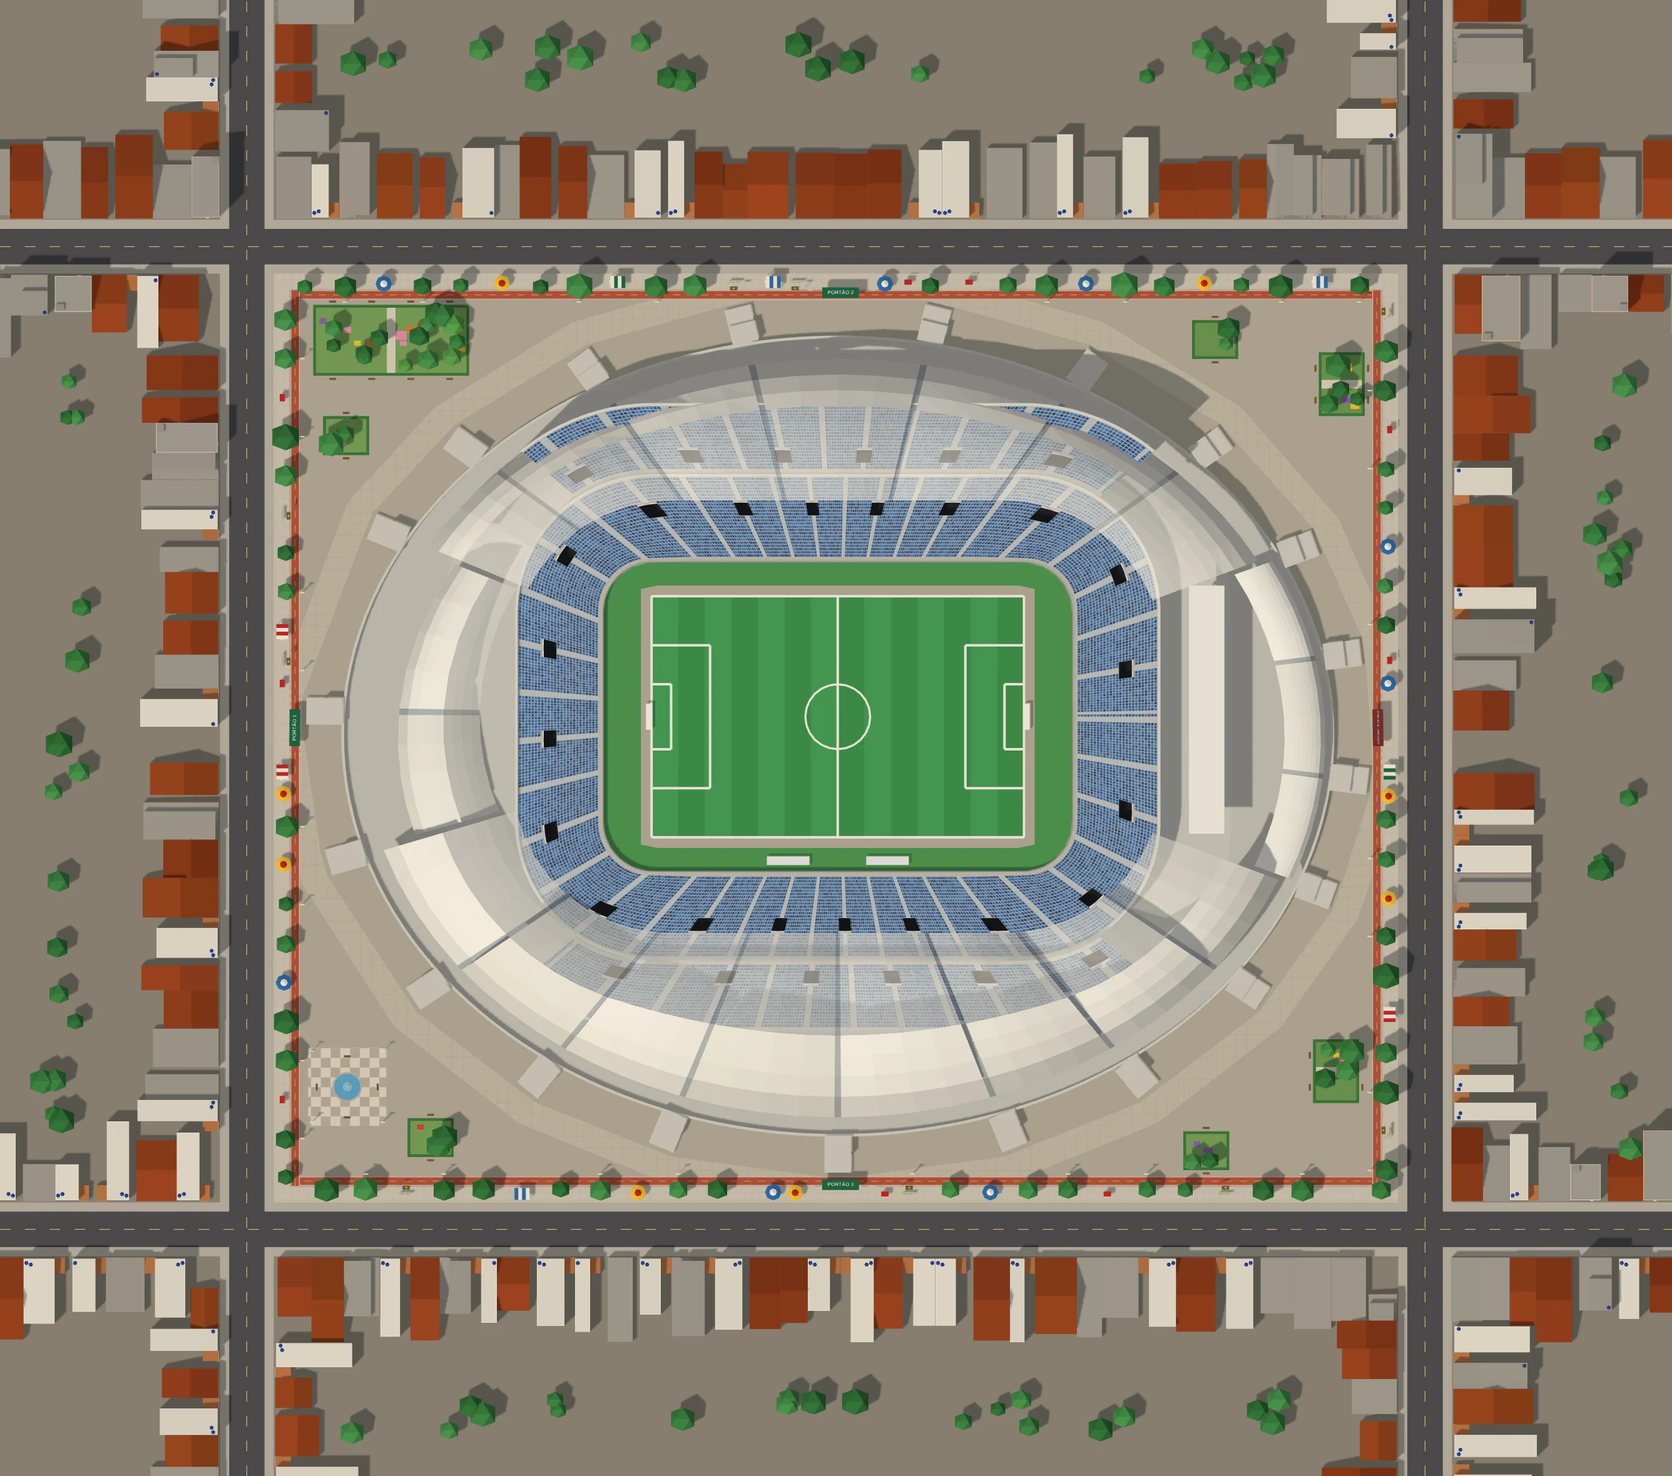
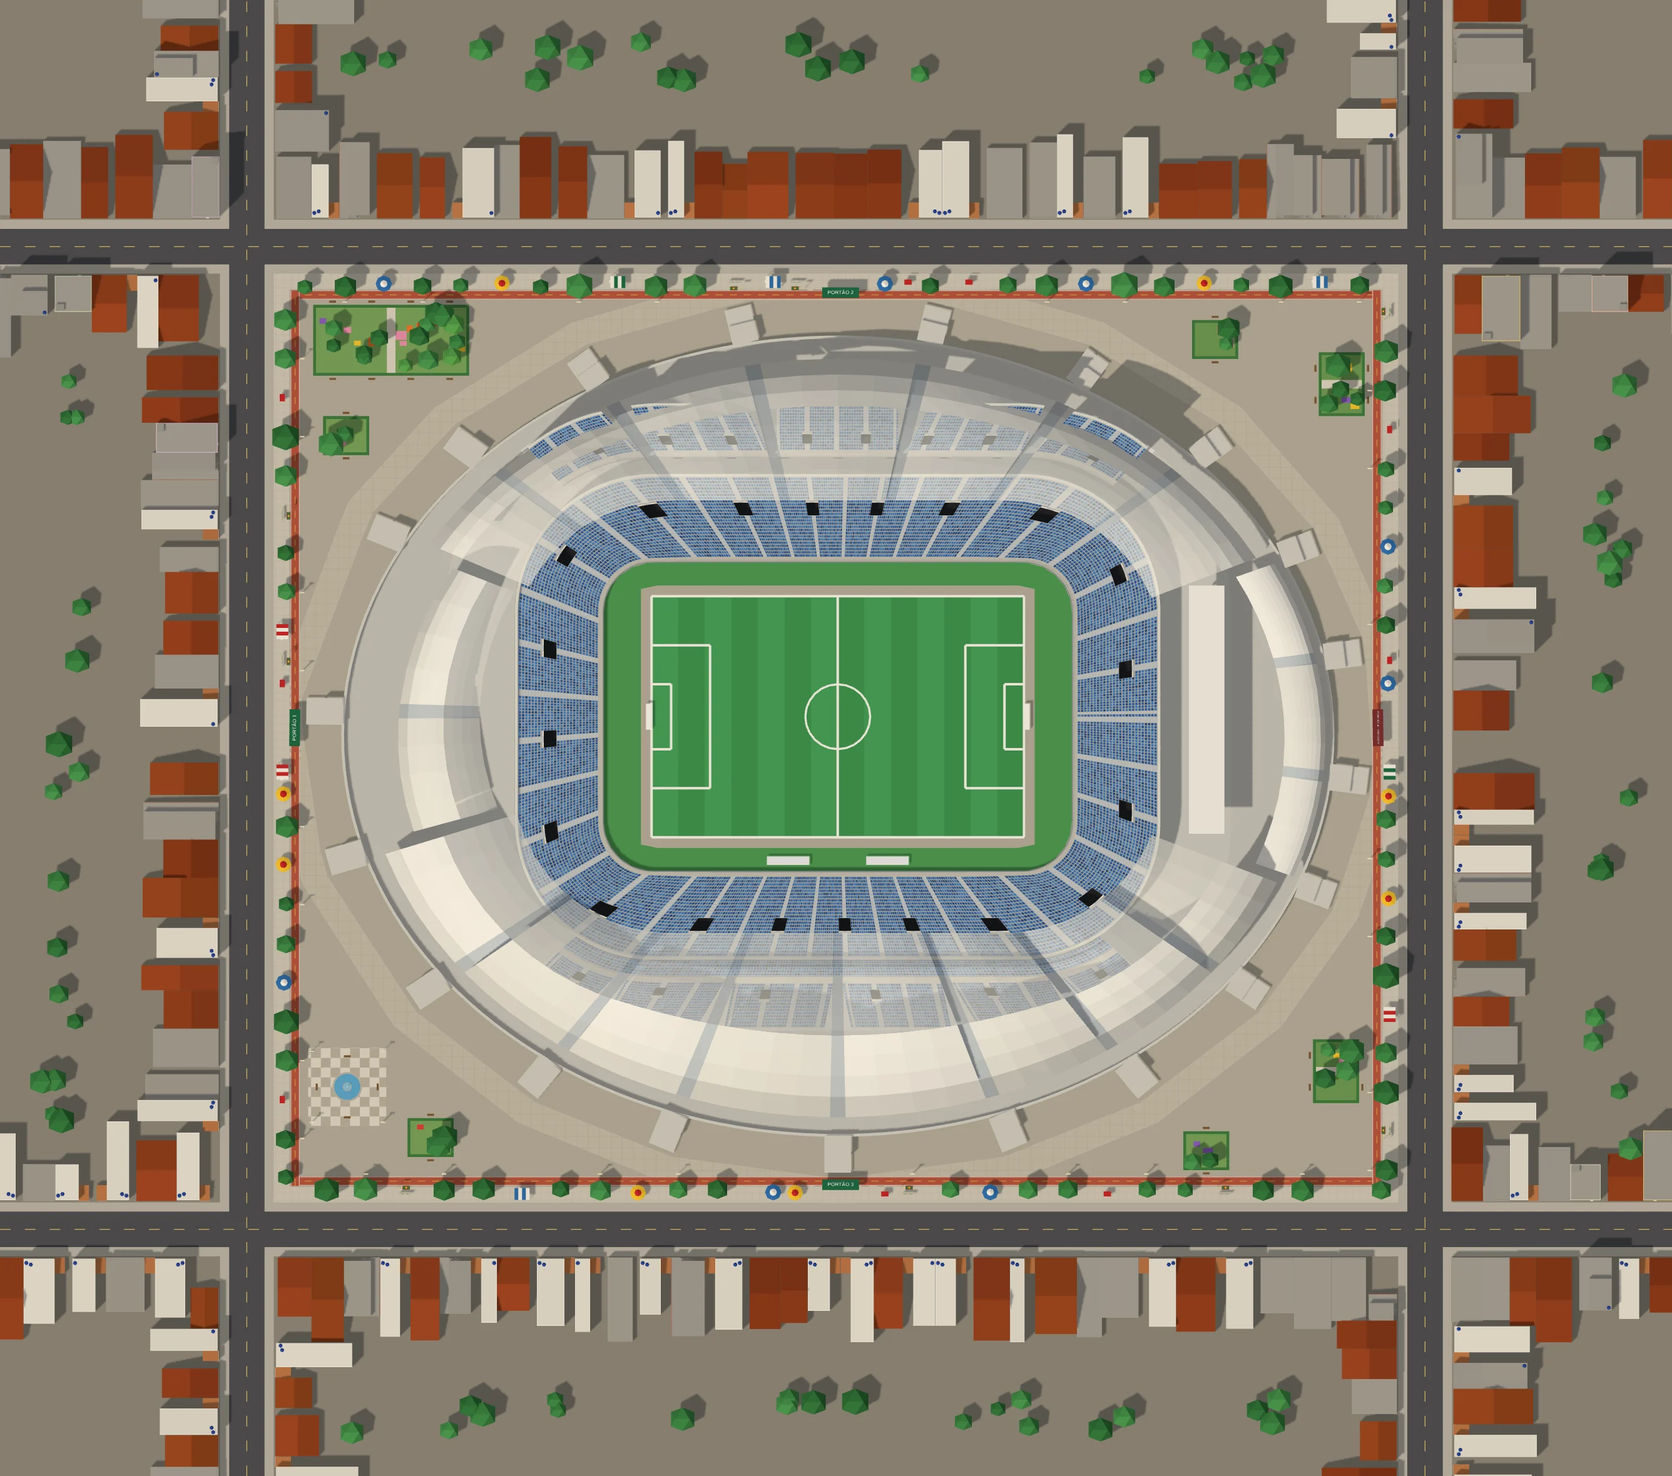
Arena das Dunas: anel de cima em blocos com fendas e arcos, camarotes só no oeste
Correção do dono com recortes de perto: o anel de cima é um bloco por
pétala, com a fenda em V por onde desce o arco da cobertura; o oeste tem o
lance dos camarotes e o leste a faixa lisa de concreto com as portas. O
gerador ganhou o arco nas pétalas.

Claude-Session: https://claude.ai/code/session_019hwwMAyyP7ZAvyq6wYTetr

diff --git a/cenario3d/planta.html b/cenario3d/planta.html
@@ -289,24 +289,24 @@ button:focus-visible, input:focus-visible { outline: 2px solid var(--selecao); o
 
 <script type="module">
 import * as THREE from 'https://cdn.jsdelivr.net/npm/three@0.160.0/build/three.module.min.js';
-import { planoDaCasa, montarCasa, juntarBlocos, lugarDoDecalque, placasDoLote, segmentosDoMuro, carrosDoEstacionamento, portaoDoEstacionamento } from './js/casas3d.js?v=6b92a2b594';
-import { montarModelos } from './js/modelos3d.js?v=6b92a2b594';
-import { moldeDaPeca, comTransformador } from './js/props3d.js?v=6b92a2b594';
-import { ATLAS } from './js/modelos_atlas.js?v=6b92a2b594';
-import { Construtor, sorteio } from './js/construtor3d.js?v=6b92a2b594';
-import { gerarProposta, MAPAS, MAPA_DO_PORTE, RUA, LONGE_DO_ESTADIO_M, cisaoDaPraca, VAO_CIDADES_M, PRAIA_A_MAIS } from './js/proposta.js?v=6b92a2b594';
-import { montarSede, nivelQueCabe } from './js/sede3d.js?v=6b92a2b594';
-import { onibus as onibusDetalhe, juntar as juntarDetalhe } from './js/detalhe3d.js?v=6b92a2b594';
-import { montarLoteDeVeraneio, plantaDoLote, festaNoMundo, noMundoDoLote, cenaDaFesta, detalheDaCasaDaFesta } from './js/veraneio3d.js?v=6b92a2b594';
-import { montarCaravana, cenaDaCaravana } from './js/caravana3d.js?v=6b92a2b594';
-import { montarEstacao, montarTunel, montarCarro, TREM } from './js/metro3d.js?v=6b92a2b594';
-import { montarShopping, montarDelegacia, montarPraca, montarIgreja, montarEscola, montarHospital } from './js/equip3d.js?v=6b92a2b594';
-import { montarEquipAntigo, TIPOS_ANTIGOS } from './js/equip_antigo3d.js?v=6b92a2b594';
-import { PECAS_PRAIA, montarPecaDaPraia } from './js/praia3d.js?v=6b92a2b594';
-import { ESPECIES_LP, FLORA_LP, montarArvoreLowpoly, montarAsDez, facesDaArvore, especieLowpolyDe } from './js/arvores_lowpoly.js?v=6b92a2b594';
-import { plantarMato, montarMato, LONGE_M, DENSIDADE, LADRILHO_M } from './js/mato3d.js?v=6b92a2b594';
-import { ESTADIOS_JOGO, montarEstadioJogo, glbDoEstadio, cortarEstadio, plantaDoEstadio, modeloDaLotacao, nomeDoLetreiro, nomeComAcento, marcaDoEstadio, BOCAS_DOS_PORTOES, BILHETERIAS_DA_RUA } from './js/estadios3d.js?v=6b92a2b594';
-import { PECAS_AMBULANTES, montarAmbulante } from './js/ambulantes3d.js?v=6b92a2b594';
+import { planoDaCasa, montarCasa, juntarBlocos, lugarDoDecalque, placasDoLote, segmentosDoMuro, carrosDoEstacionamento, portaoDoEstacionamento } from './js/casas3d.js?v=af92171e45';
+import { montarModelos } from './js/modelos3d.js?v=af92171e45';
+import { moldeDaPeca, comTransformador } from './js/props3d.js?v=af92171e45';
+import { ATLAS } from './js/modelos_atlas.js?v=af92171e45';
+import { Construtor, sorteio } from './js/construtor3d.js?v=af92171e45';
+import { gerarProposta, MAPAS, MAPA_DO_PORTE, RUA, LONGE_DO_ESTADIO_M, cisaoDaPraca, VAO_CIDADES_M, PRAIA_A_MAIS } from './js/proposta.js?v=af92171e45';
+import { montarSede, nivelQueCabe } from './js/sede3d.js?v=af92171e45';
+import { onibus as onibusDetalhe, juntar as juntarDetalhe } from './js/detalhe3d.js?v=af92171e45';
+import { montarLoteDeVeraneio, plantaDoLote, festaNoMundo, noMundoDoLote, cenaDaFesta, detalheDaCasaDaFesta } from './js/veraneio3d.js?v=af92171e45';
+import { montarCaravana, cenaDaCaravana } from './js/caravana3d.js?v=af92171e45';
+import { montarEstacao, montarTunel, montarCarro, TREM } from './js/metro3d.js?v=af92171e45';
+import { montarShopping, montarDelegacia, montarPraca, montarIgreja, montarEscola, montarHospital } from './js/equip3d.js?v=af92171e45';
+import { montarEquipAntigo, TIPOS_ANTIGOS } from './js/equip_antigo3d.js?v=af92171e45';
+import { PECAS_PRAIA, montarPecaDaPraia } from './js/praia3d.js?v=af92171e45';
+import { ESPECIES_LP, FLORA_LP, montarArvoreLowpoly, montarAsDez, facesDaArvore, especieLowpolyDe } from './js/arvores_lowpoly.js?v=af92171e45';
+import { plantarMato, montarMato, LONGE_M, DENSIDADE, LADRILHO_M } from './js/mato3d.js?v=af92171e45';
+import { ESTADIOS_JOGO, montarEstadioJogo, glbDoEstadio, cortarEstadio, plantaDoEstadio, modeloDaLotacao, nomeDoLetreiro, nomeComAcento, marcaDoEstadio, BOCAS_DOS_PORTOES, BILHETERIAS_DA_RUA } from './js/estadios3d.js?v=af92171e45';
+import { PECAS_AMBULANTES, montarAmbulante } from './js/ambulantes3d.js?v=af92171e45';
 
 const $ = id => document.getElementById(id);
 const aviso = $('aviso');
@@ -323,25 +323,25 @@ function carregarScript(src) {
 }
 window.TO = window.TO || { dados: {} };
 try {
-  await carregarScript('dados/torcidas.js?v=6b92a2b594');
-  await carregarScript('dados/times.js?v=6b92a2b594');
-  await carregarScript('dados/cena_estadio.js?v=6b92a2b594');
-  await carregarScript('dados/cidades.js?v=6b92a2b594');
-  await carregarScript('dados/estadios.js?v=6b92a2b594');
-  await carregarScript('dados/escudos.js?v=6b92a2b594');
+  await carregarScript('dados/torcidas.js?v=af92171e45');
+  await carregarScript('dados/times.js?v=af92171e45');
+  await carregarScript('dados/cena_estadio.js?v=af92171e45');
+  await carregarScript('dados/cidades.js?v=af92171e45');
+  await carregarScript('dados/estadios.js?v=af92171e45');
+  await carregarScript('dados/escudos.js?v=af92171e45');
   /* o manifesto das faixas de verdade (a arte do dono, 29/09/2026): a arquibancada estende a da torcida */
-  await carregarScript('dados/faixas.js?v=6b92a2b594').catch(() => {});
+  await carregarScript('dados/faixas.js?v=af92171e45').catch(() => {});
   /* O DOMÍNIO DOS BAIRROS (o dono, 30/09/2026): as sedes repetidas num
      bairro saem espalhadas (nos dados, na carga) e os bares ganham o
      bairro deles — o mesmo módulo do jogo (js/mundo/dominio.js) */
-  await carregarScript('js/dominio.js?v=6b92a2b594').catch(() => {});
+  await carregarScript('js/dominio.js?v=af92171e45').catch(() => {});
 } catch (e) {
   aviso.textContent = 'A planta da cidade não carregou (' + e.message + '). Recarregue a página.';
   throw e;
 }
 /* os PNG dos escudos, embutidos (o montar.sh gera): sem o arquivo, o
    caminho vai direto pra img/escudos/ */
-await carregarScript('dados/escudos_embutidos.js?v=6b92a2b594').catch(() => {});
+await carregarScript('dados/escudos_embutidos.js?v=af92171e45').catch(() => {});
 const P = TO.dados.plantaEstadio, K = P.CIDADE, M = P.METRO, CALC = K.CALC;
 /* o mapa da vez (o pequeno, o médio ou o grande, montado pra praça
    escolhida): quem monta é usarMapa, lá embaixo */

diff --git a/cenario3d/dados/estadios_cenas.js b/cenario3d/dados/estadios_cenas.js
@@ -22136,7 +22136,7 @@ window.__ESTADIOS = {
    "visitante": 3
   },
   "foto": {
-   "imagem": "img/cenas/estadio_arena_das_dunas.webp?v=a90ebe80",
+   "imagem": "img/cenas/estadio_arena_das_dunas.webp?v=8a4f0a4c",
    "mascara": "384;384;384;384;384;384;384;384;384;384;384;384;384;384;384;384;384;384;384;384;384;384;384;384;384;384;384;384;384;384;384;384;384;186,12,186;173,38,173;166,52,166;161,62,161;157,70,157;153,78,153;149,86,149;146,92,146;143,98,143;140,104,140;137,110,137;135,114,135;133,118,133;130,124,130;128,128,128;126,132,126;124,136,124;122,140,122;121,142,121;119,146,119;117,150,117;116,152,116;114,156,114;113,158,113;111,162,111;110,164,110;108,168,108;107,170,107;106,172,106;104,176,104;103,178,103;102,180,102;101,182,101;100,184,100;99,186,99;98,188,98;97,190,97;95,194,95;95,194,95;94,196,94;93,198,93;92,200,92;91,202,91;90,204,90;89,206,89;88,208,88;88,208,88;87,210,87;86,212,86;85,214,85;85,214,85;84,216,84;83,218,83;83,218,83;82,220,82;81,222,81;81,222,81;80,224,80;80,224,80;79,226,79;78,228,78;78,228,78;77,65,100,65,77;77,65,100,65,77;77,65,100,65,77;76,66,100,66,76;76,66,100,66,76;75,67,100,67,75;75,67,100,67,75;74,68,100,68,74;74,68,100,68,74;74,68,100,68,74;73,69,100,69,73;73,69,100,69,73;73,69,100,69,73;72,70,100,70,72;72,70,100,70,72;72,70,100,70,72;71,71,100,71,71;71,71,100,71,71;71,71,100,71,71;71,71,100,71,71;70,72,100,72,70;70,72,100,72,70;70,72,100,72,70;70,72,100,72,70;70,72,100,72,70;70,72,100,72,70;69,73,100,73,69;69,73,100,73,69;69,73,100,73,69;69,73,100,73,69;69,73,100,73,69;69,73,100,73,69;69,73,100,73,69;69,73,100,73,69;69,73,100,73,69;69,73,100,73,69;69,73,100,73,69;69,73,100,73,69;69,73,100,73,69;69,73,100,73,69;69,73,100,73,69;69,73,100,73,69;69,73,100,73,69;69,73,100,73,69;69,73,100,73,69;69,73,100,73,69;69,73,100,73,69;69,73,100,73,69;69,73,100,73,69;69,73,100,73,69;70,72,100,72,70;70,72,100,72,70;70,72,100,72,70;70,72,100,72,70;70,72,100,72,70;70,72,100,72,70;71,71,100,71,71;71,71,100,71,71;71,71,100,71,71;71,71,100,71,71;72,70,100,70,72;72,70,100,70,72;72,70,100,70,72;73,69,100,69,73;73,69,100,69,73;73,69,100,69,73;74,236,74;74,236,74;74,236,74;75,234,75;75,234,75;76,232,76;76,232,76;77,230,77;77,230,77;78,228,78;78,228,78;79,226,79;79,226,79;80,224,80;80,224,80;81,222,81;82,220,82;82,220,82;83,218,83;83,218,83;84,216,84;85,214,85;86,212,86;86,212,86;87,210,87;88,208,88;89,206,89;89,206,89;90,204,90;91,202,91;92,200,92;93,198,93;94,196,94;95,194,95;96,192,96;97,190,97;98,188,98;99,186,99;100,184,100;101,182,101;102,180,102;104,176,104;105,174,105;106,172,106;107,170,107;109,166,109;110,164,110;111,162,111;113,158,113;114,156,114;116,152,116;118,148,118;119,146,119;121,142,121;123,138,123;125,134,125;127,130,127;129,126,129;131,122,131;133,118,133;136,112,136;138,108,138;141,102,141;144,96,144;147,90,147;150,84,150;154,76,154;158,68,158;162,60,162;168,48,168;176,32,176;384;384;384;384;384;384;384;384;384;384;384;384;384;384;384;384;384;384;384;384;384;384;384;384"
   },
   "cena": {

diff --git a/cenario3d/js/jogo2d.js b/cenario3d/js/jogo2d.js
@@ -17,7 +17,7 @@
    cartão da partida cai perto da hora da bola e nada do que conta o
    placar passa na frente dele.
    ========================================================= */
-import { CASCA } from './jogo_casca.js?v=6b92a2b594';
+import { CASCA } from './jogo_casca.js?v=af92171e45';
 
 const carregarScript = src => new Promise((ok, erro) => {
   const s = document.createElement('script');
@@ -31,18 +31,18 @@ async function montarJogo() {
   caixa.innerHTML = CASCA;
   while (caixa.firstChild) document.body.appendChild(caixa.firstChild);
   /* os escudos, as fotos das praças e as bandeiras embutidos (o `IMG()` do jogo procura aqui antes do caminho) */
-  await carregarScript('dados/imagens_jogo.js?v=6b92a2b594').catch(() => {});
+  await carregarScript('dados/imagens_jogo.js?v=af92171e45').catch(() => {});
   /* os estádios low-poly das cenas (ferramentas/estadios/assar.js): antes do jogo, que monta as cenas quando carrega */
-  await carregarScript('dados/estadios_cenas.js?v=6b92a2b594').catch(() => {});
-  await carregarScript('dados/arredores_cenas.js?v=6b92a2b594').catch(() => {});
+  await carregarScript('dados/estadios_cenas.js?v=af92171e45').catch(() => {});
+  await carregarScript('dados/arredores_cenas.js?v=af92171e45').catch(() => {});
   /* sem o rolo do feed: a tela entre os jogos é o portal */
   window.TO = window.TO || {};
   TO.semFeed = true;
-  await carregarScript('js/jogo.js?v=6b92a2b594');
-  await carregarScript('js/portal.js?v=6b92a2b594').catch(err => console.error('o portal não carregou:', err));
+  await carregarScript('js/jogo.js?v=af92171e45');
+  await carregarScript('js/portal.js?v=af92171e45').catch(err => console.error('o portal não carregou:', err));
   /* o boneco das cenas de imagem (os dois níveis afinados, em base64) */
-  if (!TO.dados.bonecoPertoGLB) await carregarScript('dados/boneco_glb.js?v=6b92a2b594').catch(() => {});
-  await import('./bonecos3_global.js?v=6b92a2b594').catch(err => console.error('o boneco das cenas não carregou:', err));
+  if (!TO.dados.bonecoPertoGLB) await carregarScript('dados/boneco_glb.js?v=af92171e45').catch(() => {});
+  await import('./bonecos3_global.js?v=af92171e45').catch(err => console.error('o boneco das cenas não carregou:', err));
   ligar();
 }
 

diff --git a/cenario3d/jogo.html b/cenario3d/jogo.html
@@ -9,16 +9,16 @@
 <link rel="preconnect" href="https://fonts.googleapis.com">
 <link rel="preconnect" href="https://fonts.gstatic.com" crossorigin>
 <link rel="stylesheet" href="https://fonts.googleapis.com/css2?family=Barlow+Semi+Condensed:wght@500;600;700&family=Barlow:wght@400;500;600&family=IBM+Plex+Mono:wght@400;500&display=swap">
-<link rel="stylesheet" href="css/jogo.css?v=6b92a2b594">
-<link rel="stylesheet" href="css/jogo3d.css?v=6b92a2b594">
-<link rel="stylesheet" href="css/portal.css?v=6b92a2b594">
-<link rel="stylesheet" href="css/telas3d.css?v=6b92a2b594">
+<link rel="stylesheet" href="css/jogo.css?v=af92171e45">
+<link rel="stylesheet" href="css/jogo3d.css?v=af92171e45">
+<link rel="stylesheet" href="css/portal.css?v=af92171e45">
+<link rel="stylesheet" href="css/telas3d.css?v=af92171e45">
 <style>
 [hidden] { display: none !important; }
 html, body { height: 100%; margin: 0; }
 </style>
 </head>
 <body class="jogo3d">
-<script type="module" src="js/jogo2d.js?v=6b92a2b594"></script>
+<script type="module" src="js/jogo2d.js?v=af92171e45"></script>
 </body>
 </html>

diff --git a/cenario3d/js/casas3d.js b/cenario3d/js/casas3d.js
@@ -60,10 +60,10 @@
    avançam (`rec`), e o letreiro, a pixação e a falha de reboco do
    bairro vão pro plano dessa parede, não pro da divisa.
    ========================================================= */
-import { Construtor, METRO, mureta, toldo, arSplit, sorteio } from './construtor3d.js?v=6b92a2b594';
-import { ATLAS } from './modelos_atlas.js?v=6b92a2b594';
+import { Construtor, METRO, mureta, toldo, arSplit, sorteio } from './construtor3d.js?v=af92171e45';
+import { ATLAS } from './modelos_atlas.js?v=af92171e45';
 /* as lojas do assalto (lojas3d.js): modelos de lote como os outros */
-import { TIPOS_LOJA, REC_LOJA, placaDaLoja } from './lojas3d.js?v=6b92a2b594';
+import { TIPOS_LOJA, REC_LOJA, placaDaLoja } from './lojas3d.js?v=af92171e45';
 
 /* o arquivo de cada folha, pro bairro montar o material dele */
 export const arquivoDaFolha = folha => ATLAS[folha].arquivo;

diff --git a/cenario3d/js/ambulantes3d.js b/cenario3d/js/ambulantes3d.js
@@ -27,8 +27,8 @@
    que a planta acha o lugar dela na calçada do estádio. `sol`: o meio e
    o raio da copa ([x, z, r]), que o mapa desenha de perto.
    ========================================================= */
-import { Construtor, noMundo, placasNoMundo, sorteio, esfera, unit } from './construtor3d.js?v=6b92a2b594';
-import { Lugar, barra, tubo, cilindro, bloco, pano, toro, guardaSol, cadeiraPlastica, isopor, banqueta, CORES_SOL } from './praia3d.js?v=6b92a2b594';
+import { Construtor, noMundo, placasNoMundo, sorteio, esfera, unit } from './construtor3d.js?v=af92171e45';
+import { Lugar, barra, tubo, cilindro, bloco, pano, toro, guardaSol, cadeiraPlastica, isopor, banqueta, CORES_SOL } from './praia3d.js?v=af92171e45';
 
 const AQUI = Lugar();
 const escolha = (rnd, lista) => lista[Math.floor(rnd() * lista.length) % lista.length];

diff --git a/cenario3d/js/praia3d.js b/cenario3d/js/praia3d.js
@@ -36,8 +36,8 @@
    cadeira e a mesa de plástico) servem também os ambulantes da porta do
    estádio (ambulantes3d.js), na mesma folha.
    ========================================================= */
-import { Construtor, METRO, lerp, sub, soma, esc, unit, pv, noMundo, placasNoMundo, sorteio, varrer, esfera } from './construtor3d.js?v=6b92a2b594';
-import { montarArvoreLowpoly } from './arvores_lowpoly.js?v=6b92a2b594';
+import { Construtor, METRO, lerp, sub, soma, esc, unit, pv, noMundo, placasNoMundo, sorteio, varrer, esfera } from './construtor3d.js?v=af92171e45';
+import { montarArvoreLowpoly } from './arvores_lowpoly.js?v=af92171e45';
 
 const ALTO = [0, 1, 0];
 const escolha = (rnd, lista) => lista[Math.floor(rnd() * lista.length) % lista.length];

diff --git a/cenario3d/js/modelos3d.js b/cenario3d/js/modelos3d.js
@@ -32,8 +32,8 @@
    requadro da janela, toldo, ar-condicionado. O resto é pintura.
    ========================================================= */
 import * as THREE from 'https://cdn.jsdelivr.net/npm/three@0.160.0/build/three.module.min.js';
-import { ATLAS } from './modelos_atlas.js?v=6b92a2b594';
-import { Construtor, METRO, lerp, sub, soma, esc, pv, pe, unit, recuoPoligono, mureta, toldo, arSplit } from './construtor3d.js?v=6b92a2b594';
+import { ATLAS } from './modelos_atlas.js?v=af92171e45';
+import { Construtor, METRO, lerp, sub, soma, esc, pv, pe, unit, recuoPoligono, mureta, toldo, arSplit } from './construtor3d.js?v=af92171e45';
 
 /* =======================================================
    1. A IGREJA MATRIZ

diff --git a/cenario3d/js/props3d.js b/cenario3d/js/props3d.js
@@ -26,8 +26,8 @@
    poste vira uma haste de longe; o resto, que é miúdo, some.
    ========================================================= */
 import * as THREE from 'https://cdn.jsdelivr.net/npm/three@0.160.0/build/three.module.min.js';
-import { ATLAS } from './modelos_atlas.js?v=6b92a2b594';
-import { Construtor, METRO, lerp } from './construtor3d.js?v=6b92a2b594';
+import { ATLAS } from './modelos_atlas.js?v=af92171e45';
+import { Construtor, METRO, lerp } from './construtor3d.js?v=af92171e45';
 
 /* as cores que o vértice dá pro que sai claro na folha */
 const COR_CESTO = ['#6aa33a', '#d2b53a', '#3f82ad', '#8b6a3c', '#b8452f'];

diff --git a/cenario3d/js/mato3d.js b/cenario3d/js/mato3d.js
@@ -19,8 +19,8 @@
 
    Tudo em metros; `noMundo` converte. A mesma semente dá o mesmo mato.
    ========================================================= */
-import { METRO, noMundo, sorteio } from './construtor3d.js?v=6b92a2b594';
-import { facesDaArvore, especieLowpolyDe } from './arvores_lowpoly.js?v=6b92a2b594';
+import { METRO, noMundo, sorteio } from './construtor3d.js?v=af92171e45';
+import { facesDaArvore, especieLowpolyDe } from './arvores_lowpoly.js?v=af92171e45';
 
 /* a área de chão de cada árvore (m²), por lugar */
 export const DENSIDADE = { mata: 70, cerrado: 200, caatinga: 150, sul: 90, praia: 120, cidade: 250 };

diff --git a/cenario3d/js/bonecos3_global.js b/cenario3d/js/bonecos3_global.js
@@ -14,7 +14,7 @@
    DOMContentLoaded: quem usa (a ponte, numa cena aberta pelo jogador)
    chega muito depois.
    ========================================================= */
-import { montar, desenharDeCima, desenharVitrine, limparDeCima, fotoDoTrofeu, fotoDaBriga, fotoDaCena, perdeu, bonecos } from './bonecos3_cena.js?v=6b92a2b594';
+import { montar, desenharDeCima, desenharVitrine, limparDeCima, fotoDoTrofeu, fotoDaBriga, fotoDaCena, perdeu, bonecos } from './bonecos3_cena.js?v=af92171e45';
 
 window.TO = window.TO || {};
 TO.diaJogo = TO.diaJogo || {};

diff --git a/cenario3d/js/bonecos3_cena.js b/cenario3d/js/bonecos3_cena.js
@@ -103,7 +103,7 @@
       numa fase sorteada (quem sai junto não sai no mesmo pé).
    ========================================================= */
 import * as THREE from 'https://cdn.jsdelivr.net/npm/three@0.160.0/build/three.module.min.js';
-import { GLTFLoader, SkeletonUtils } from './GLTFLoader.js?v=6b92a2b594';
+import { GLTFLoader, SkeletonUtils } from './GLTFLoader.js?v=af92171e45';
 
 /* onde o modelo mora, quando não vem embutido em base64: o detalhado
    (o do Blender) e os dois níveis afinados dele (ferramentas/afinar_boneco.mjs) */
